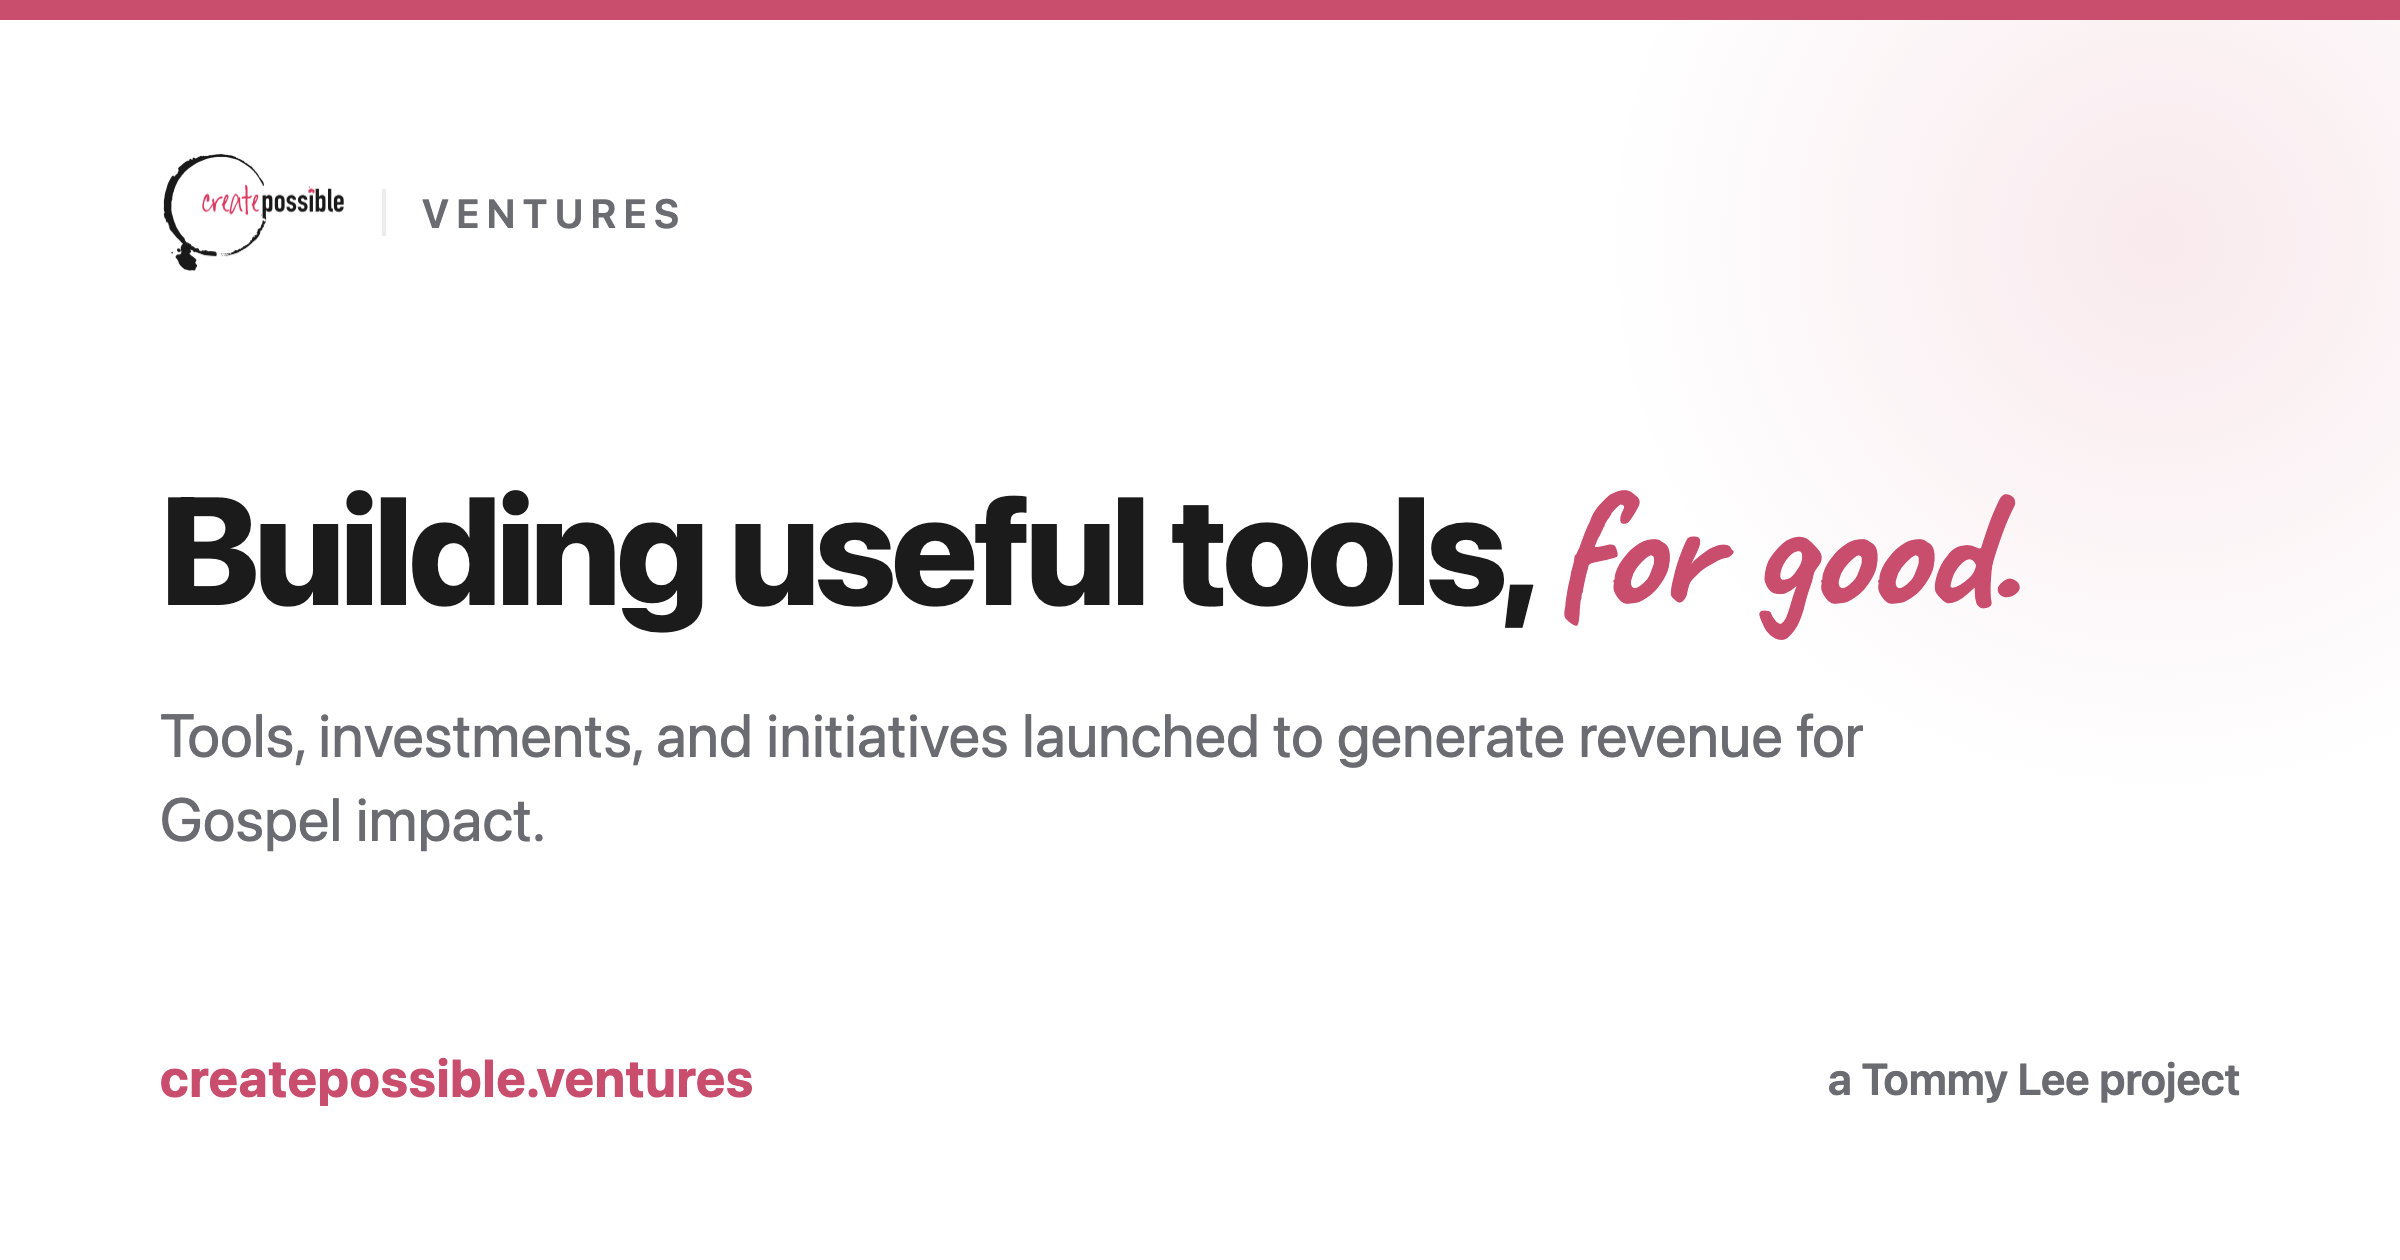
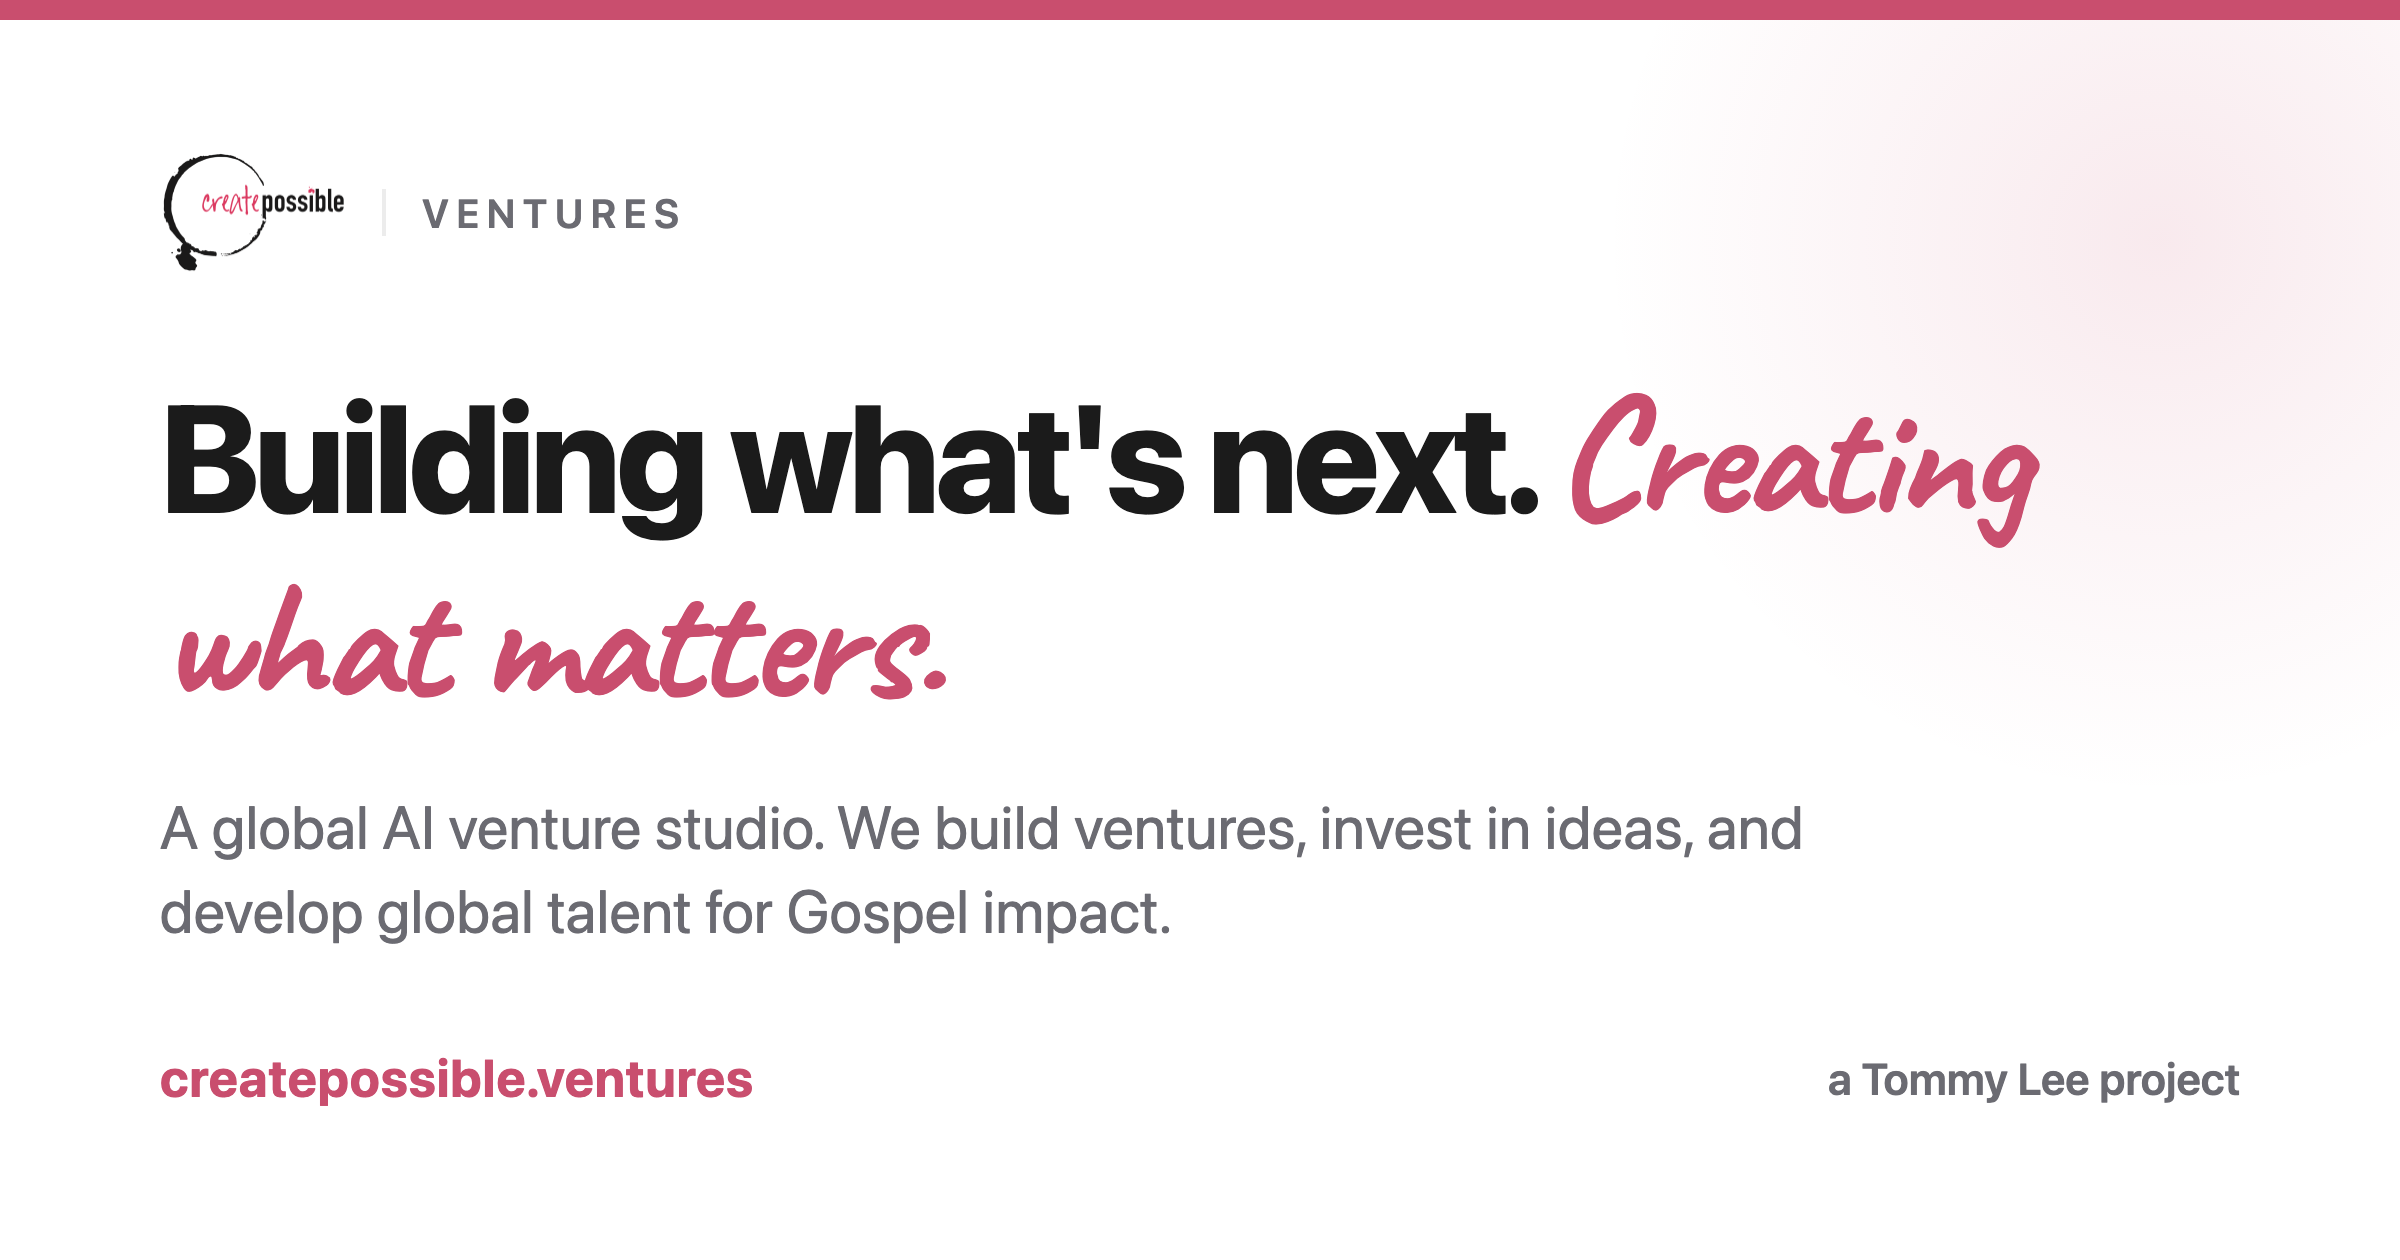
Refresh link-preview image to match the new positioning

Changed region(s): [[0.0625, 0.3095, 0.8438, 0.681], [0.0625, 0.7119, 0.5, 0.7429]]

diff --git a/og.html b/og.html
@@ -35,8 +35,8 @@
     </div>
 
     <div class="mid">
-      <h1>Building useful tools, <span class="script">for good.</span></h1>
-      <p class="sub">Tools, investments, and initiatives launched to generate revenue for Gospel impact.</p>
+      <h1>Building what's next. <span class="script">Creating what matters.</span></h1>
+      <p class="sub">A global AI venture studio. We build ventures, invest in ideas, and develop global talent for Gospel impact.</p>
     </div>
 
     <div class="foot">
